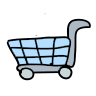
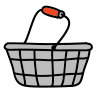
supernotif

diff --git a/app/assets/stylesheets/components/_navbar.scss b/app/assets/stylesheets/components/_navbar.scss
@@ -28,8 +28,8 @@
 #navi-search {
   background-color: lightgray;
   border: 0;
-  width: 500px;
-  height: 37px;
+  width: 505px;
+  height: 40px;
   margin: -6px;
   font-family: 'Schoolbell', cursive;
   font-size: 20px;
@@ -53,8 +53,8 @@
 }
 
 #panier {
-  width: 40px;
-  height: 40px;
+  width: 30px;
+  height: 30px;
   margin: 5px;
   margin-right: 25px;
 }
@@ -92,6 +92,29 @@
 }
 
 .dropdown {
+  margin-top: 5px;
+}
+
+.dropdown-menu-left {
+  margin-top: 16px;
   margin-left: 20px;
-  padding-top: 16px;
+}
+
+.div-panier {
+  position: relative;
+  #notif {
+    position: absolute;
+    width: 22px;
+    height: 22px;
+    left: 22px;
+    top: -3px;
+  }
+  #number-notif {
+    position: absolute;
+    right: 23px;
+    top: -2px;
+    color: white;
+    font-family: 'Schoolbell', cursive;
+    font-size: 14px;
+  }
 }

diff --git a/app/assets/stylesheets/components/_progression.scss b/app/assets/stylesheets/components/_progression.scss
@@ -1,6 +1,7 @@
 .progression-bar {
 background-color: white;
-padding-bottom: 10px;
+padding-bottom: 20px;
+padding-top: 15px;
 }
 
 .progress-container {
